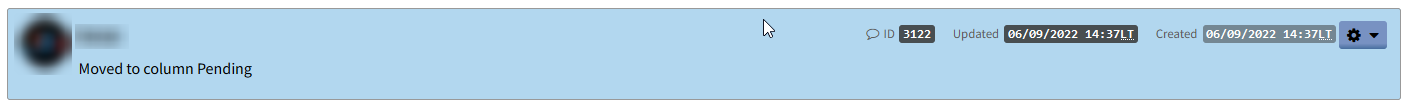
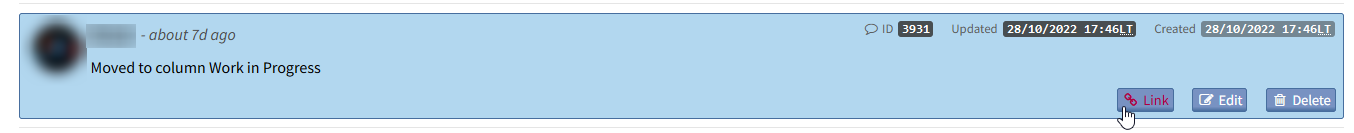
Update README.md
- Fixes #4 Display Comment IDs in Activity Stream
- Fixes #8 Add Direct to Comment button in Dashboard Overview

Changed region(s): [[0.0, 0.0561, 1.0, 0.9813], [0.5273, 0.1963, 0.5583, 0.3364]]

diff --git a/Template/event/comment_create.php b/Template/event/comment_create.php
@@ -3,10 +3,10 @@
     <p class="activity-title activity-comment-title">
         <?= e('%s commented on %s',
                 $this->text->e($author),
-                $this->url->link(t('#%d', $task['id']), 'TaskViewController', 'show', array('task_id' => $task['id'], 'project_id' => $task['project_id']), false, 'task-comment-link')
+                $this->url->link(t('#%d', $task['id']), 'TaskViewController', 'show', array('task_id' => $task['id'], 'project_id' => $task['project_id']), false, 'task-comment-link', t('View Task'))
             ) ?>
         <span class="ago">
-            -&nbsp;<?= $this->dt->age($comment['date_creation']) ?> <?= t('ago') ?>
+            <?= t('- about') ?> <?= $this->dt->age($comment['date_creation']) ?> <?= t('ago') ?>
         </span>
         <small class="activity-date activity-comment-date comment-date" title="<?= t('Date Created') ?>"><?= t('Created') ?>&nbsp;
             <kbd class="comment-created"><?= $this->dt->datetime($comment['date_creation']) ?><abbr title="<?= t('Local Time') ?>"><?= t('LT') ?></abbr></kbd>
@@ -16,7 +16,7 @@
         </small>
     </p>
     <div class="activity-description activity-comment-description">
-        <p class="activity-task-title activity-comment-task-title">
+        <p class="activity-task-title activity-comment-task-title" title="<?= t('Task Title') ?>">
             <i class="fa fa-sticky-note icon-grey" aria-hidden="true"></i> <?= $this->text->e($task['title']) ?>
         </p>
         <div id="JumpComment" class="comment-actions action-comment">

diff --git a/README.md b/README.md
@@ -1,21 +1,24 @@
 # Glancer
 
-#### _Plugin for Kanboard_
+#### _Plugin for [Kanboard](https://github.com/fguillot/kanboard "Kanboard - Kanban Project Management Software")_
 
 Glancer lets you quickly jump to a project, task or comment through a search bar at the bottom of the screen. Following the 'Getting Things Done' methodology, productive users can glance in and out of tasks, comments and projects across the interface.
-
-Plugin for [Kanboard](https://github.com/fguillot/kanboard "Kanboard - Kanban Project Management Software")
 
 
 Features
 -------------
 
-- A new fixed Glancer bar across the bottom of the screen allowing users to search by Task ID, Comment ID and Project ID
-- Number-type fields let you enter your relevant ID number and press `enter` on your keyboard. A hidden button appears on focus for non-keyboard users
+#### Glancer Bar
+- A new fixed bar across the bottom of the screen allowing users to search by Task ID, Comment ID and Project ID
+- Number-type fields let you enter your relevant ID number and press `enter` on your keyboard.
+- A hidden button appears on focus for non-keyboard users
 - Dashboard Shortcut - Jumps straight to the `Tasks` section of the `Dashboard`, sorted by the last created task
-- Display comment ID in task comments
-- Make comments look consistent across the interface
-
+#### Comments
+- Revamp comments to make them look consistent across the interface
+- Display comment ID in comments
+- Add _'time ago'_ next to comment title
+- Add task icon to task title
+- Replace menu dropdown with direct action buttons
 
 Screenshots
 ----------
@@ -29,18 +32,29 @@ Screenshots
 _or simply press `enter` on your keyboard_
 ![Glancer Bar Button](../master/screenshot-glancer-button.png "Glancer Bar Button")
 
+**Comments in Tasks**
+
+![Comment](../master/screenshot-comment.png "Comment")
+
 **Comments in Tasks - Hover**
 
-![Hover Comments](../master/screenshot-comment-hover.png "Hover")
+![Comment - Hover](../master/screenshot-comment-hover.png "Comment - Hover")
 
 **Comments in Tasks - Highlighted**
 
-![Highlighted Comments](../master/screenshot-comment-highlighted.png "Highlighted")
+![Highlighted Comment](../master/screenshot-comment-highlighted.png "Highlighted Comment")
 
 _Highlighted comments will show the Glancer icon on the left_
 
+![Glancer Icon](../master/glancer-icon-full-width.png)
 
-![Glancer Icon](../master/glancer-icon.png)
+**Comments in Project Activity & Dashboard Activity**
+
+![Created Comment](../master/screenshot-project-activity-comment-created.png "Created Comment")
+
+**Comments in Project Activity & Dashboard Activity - Hover**
+
+![Created Comment - Hover](../master/screenshot-project-activity-comment-created.png "Created Comment - Hover")
 
 Usage
 -------------
